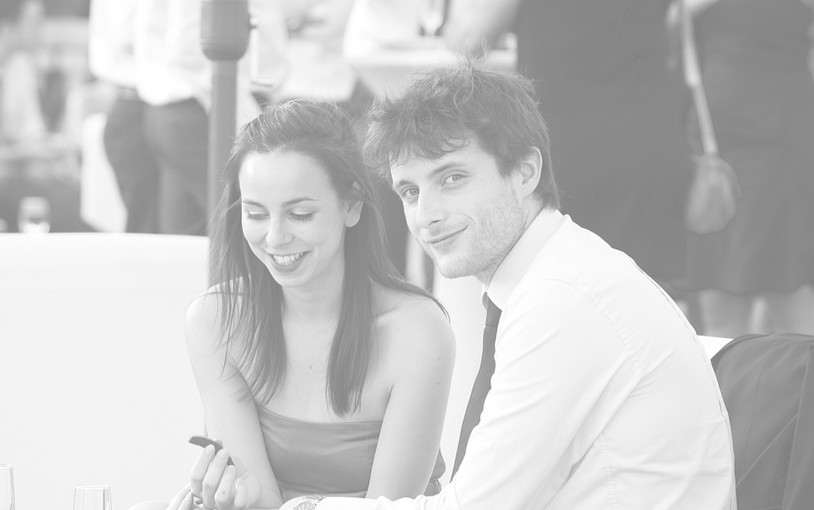
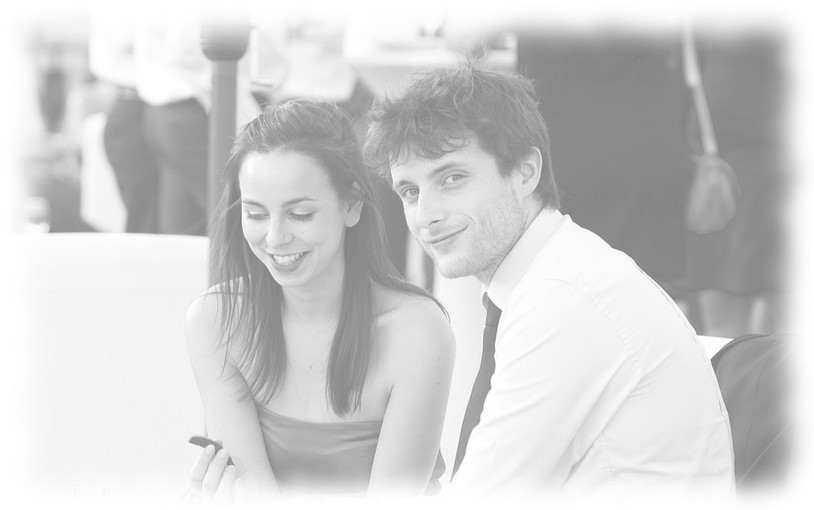
added fading border to background-image

diff --git a/src/_layouts/layout.html b/src/_layouts/layout.html
@@ -14,7 +14,7 @@
         top: 50%;/*because we have no item legend*/
       }
       body {
-        background: no-repeat url('photos/mariageNoirEtBlanc.jpg');
+        background: no-repeat url('photos/mariageNoirEtBlanc.jpg') top center;
 	background-size: cover;
       }
       .hero-unit {
